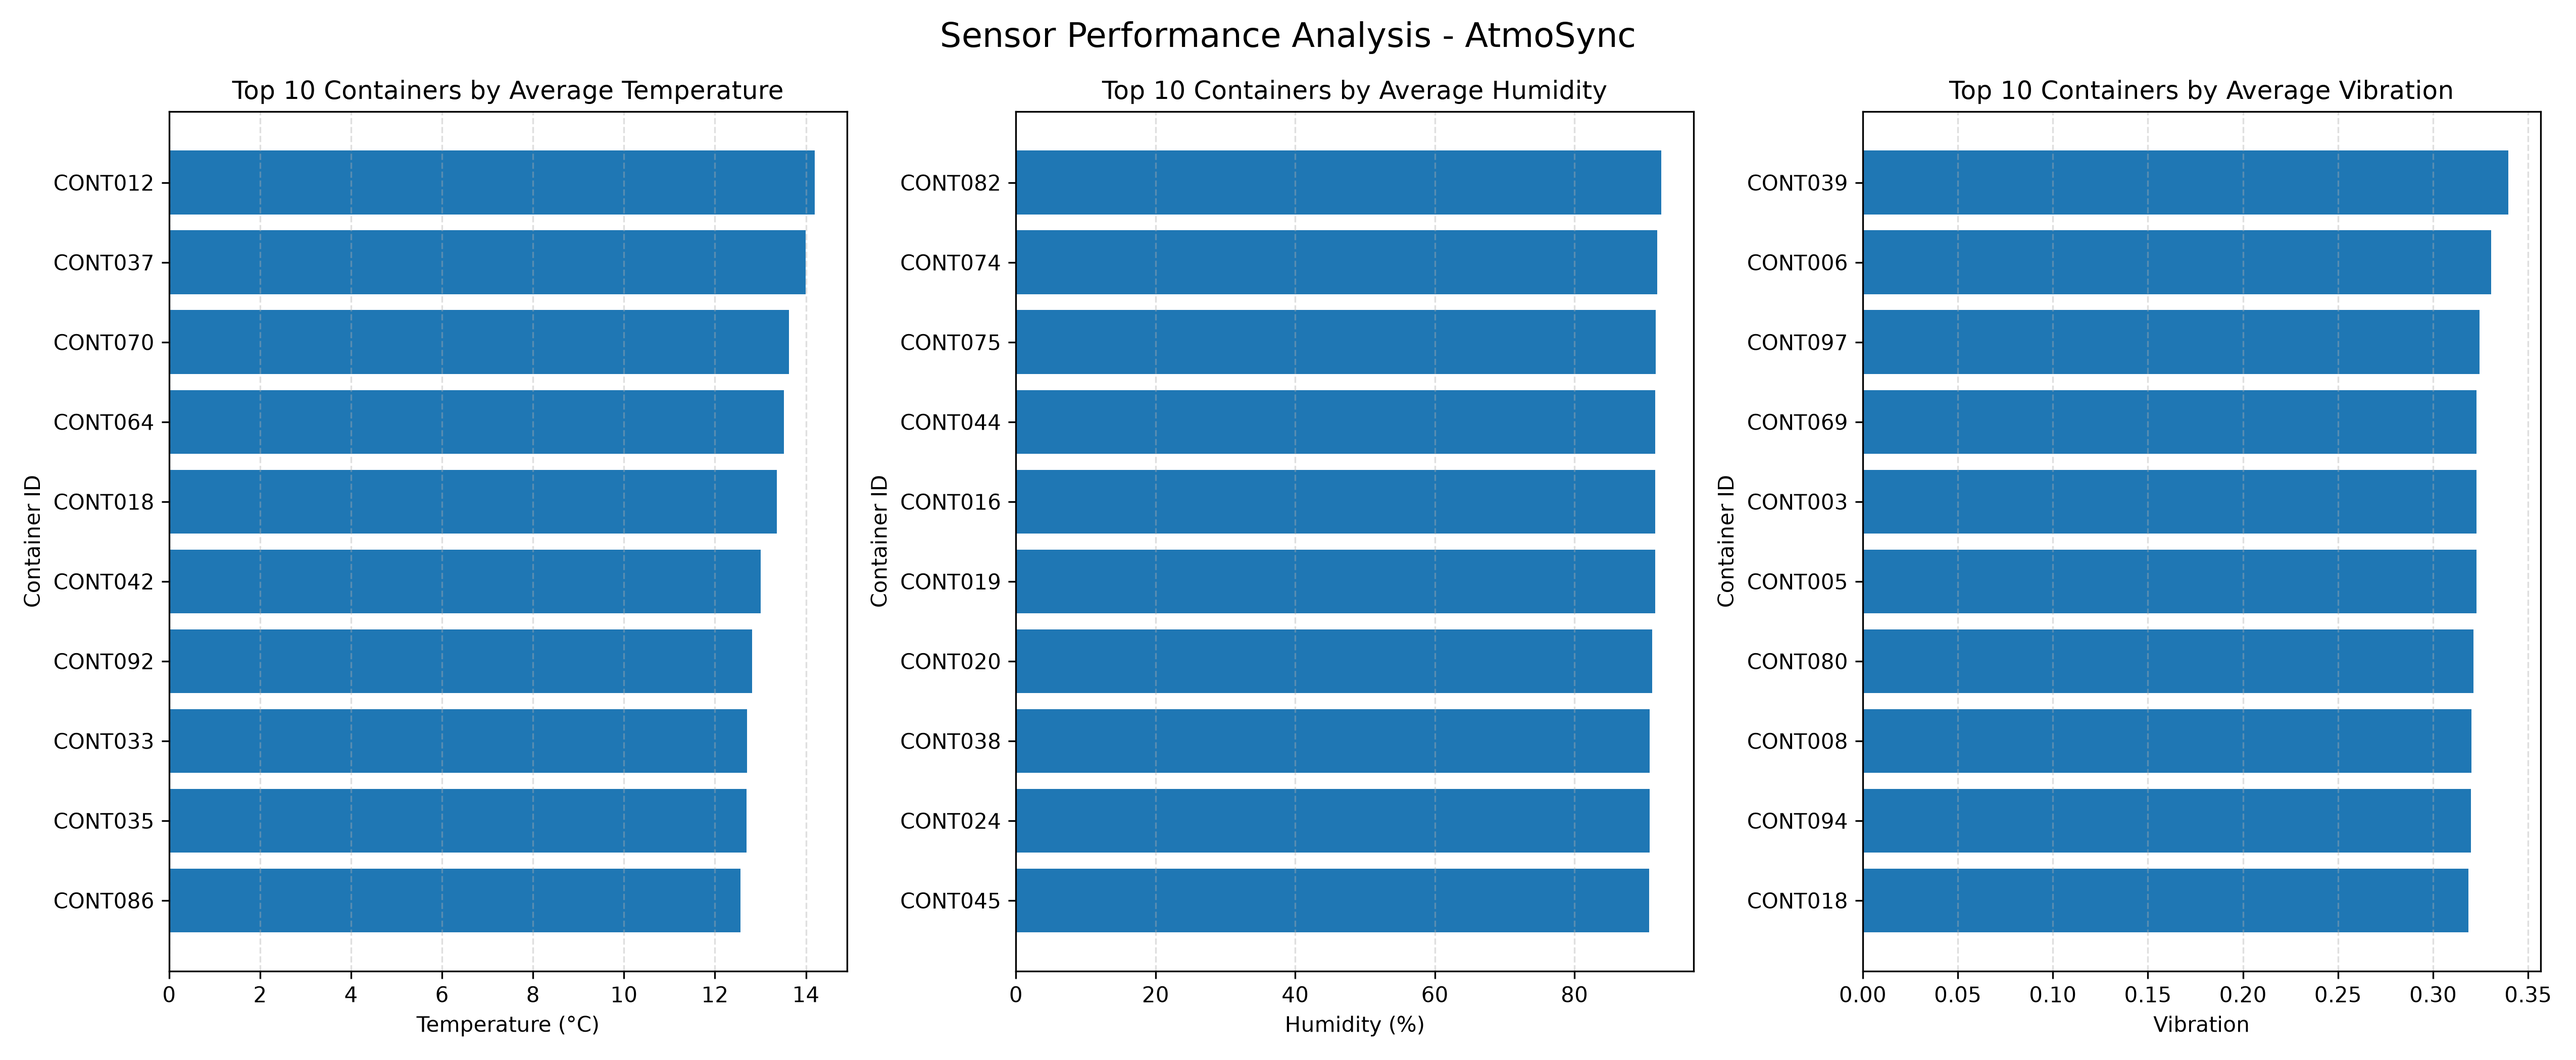
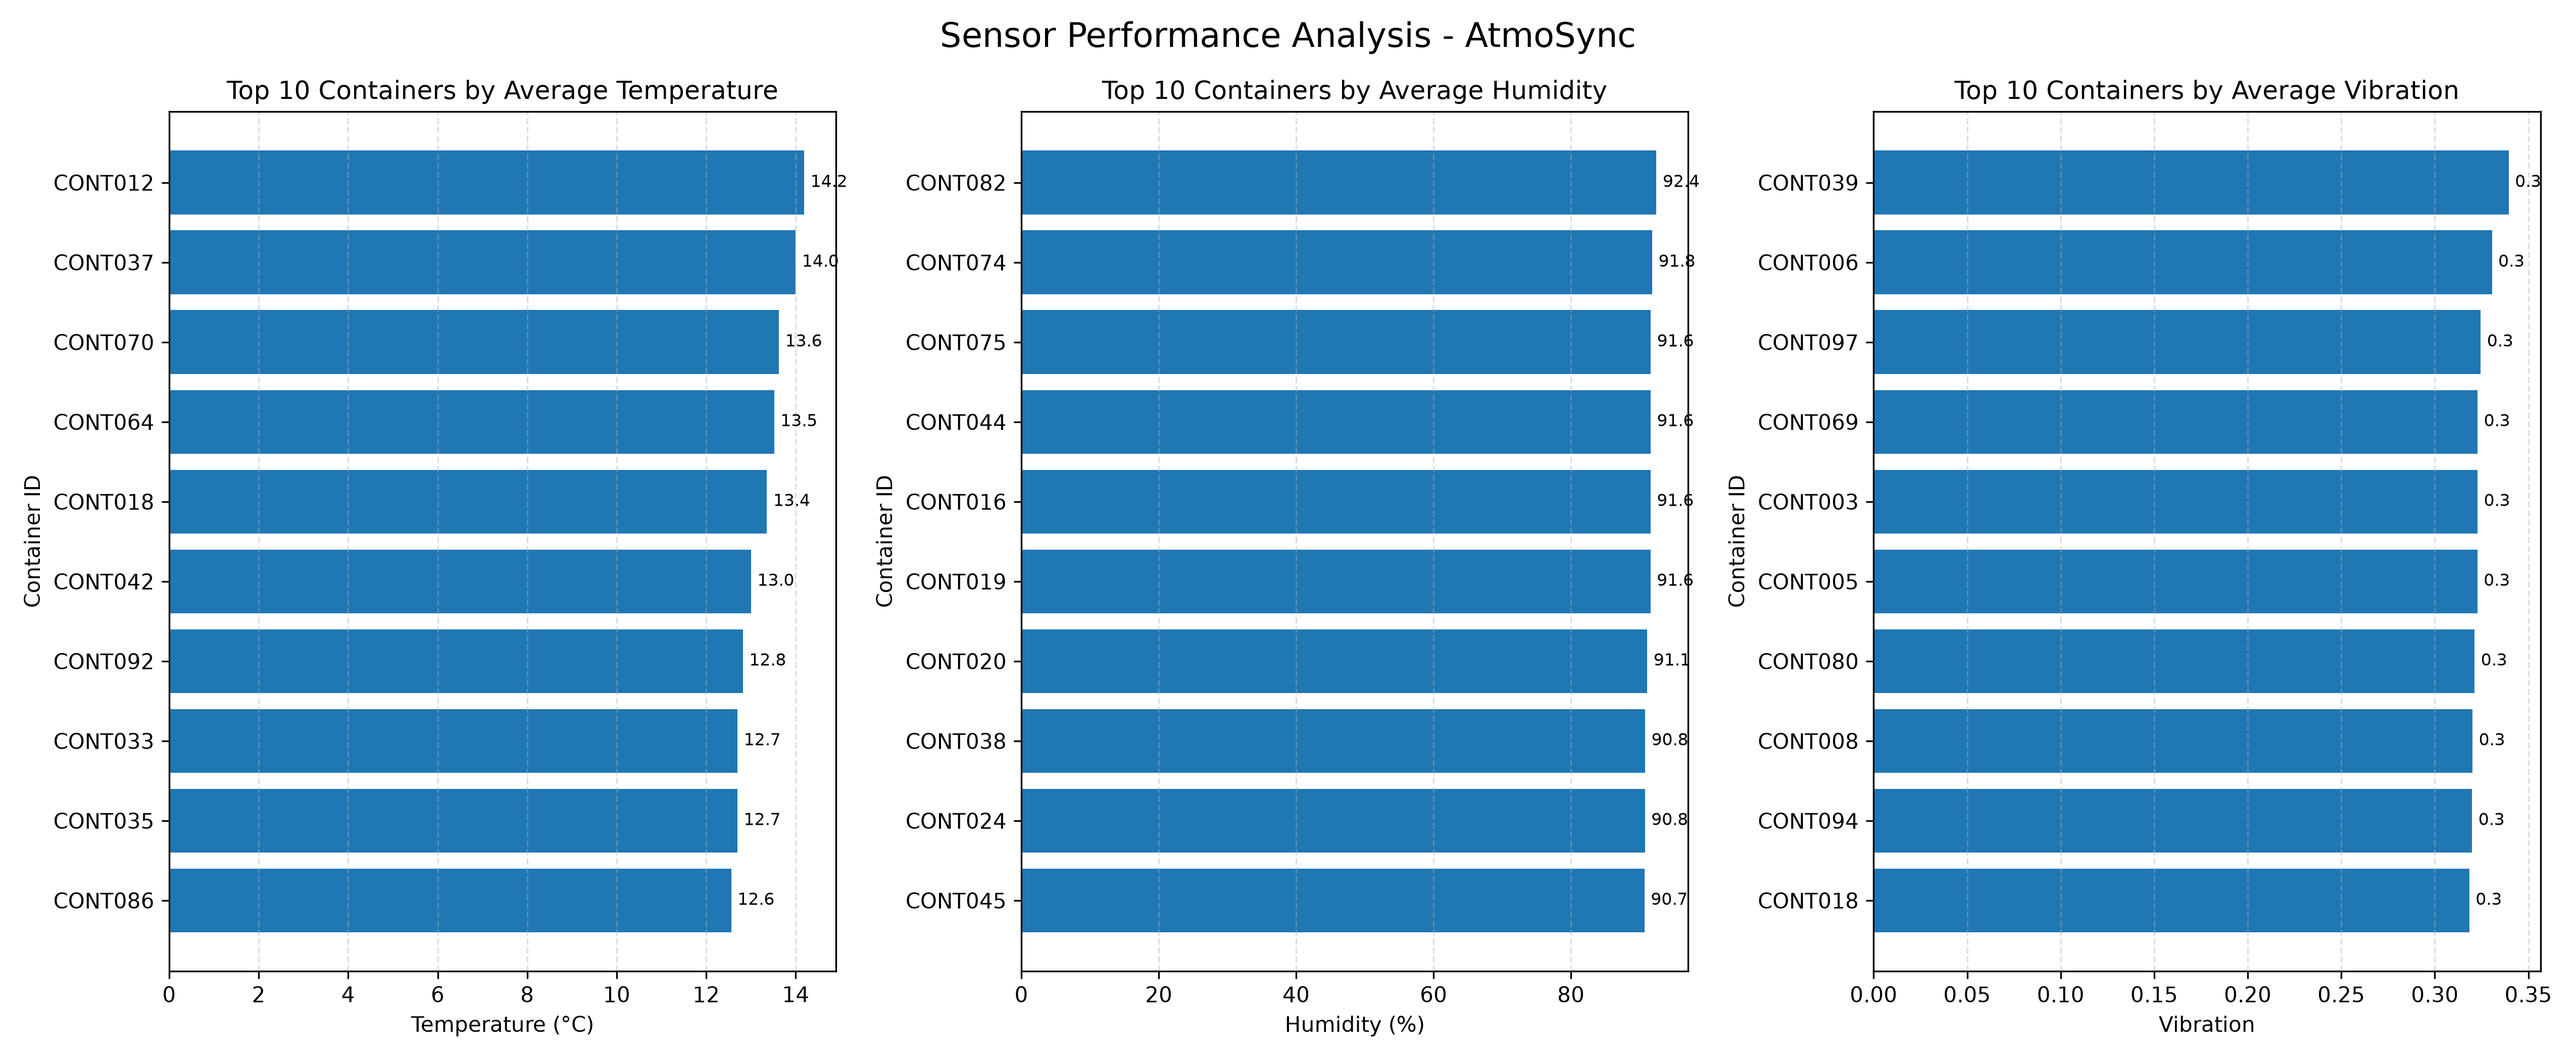
Add 12 project visualizations and improve sensor chart labels

diff --git a/visualizations/arbitrage_visualizations.py b/visualizations/arbitrage_visualizations.py
@@ -644,6 +644,13 @@ for ax, (column, title, ylabel, color) in zip(axes, chart_details):
         top_data[column]
     )
 
+    ax.bar_label(
+        ax.containers[-1],
+        fmt="%.1f",
+        padding=3,
+        fontsize=8
+    )
+
     ax.set_title(title)
     ax.set_xlabel(ylabel)
     ax.set_ylabel("Container ID")
